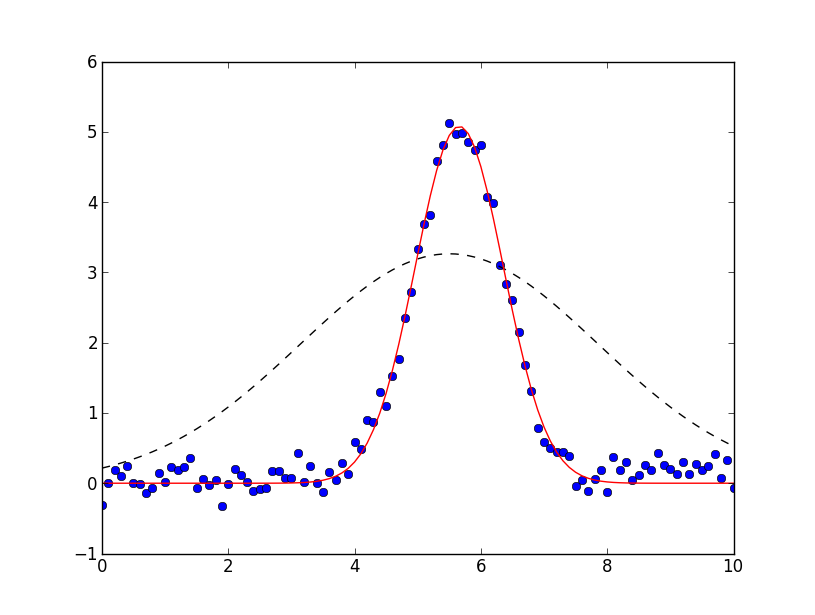
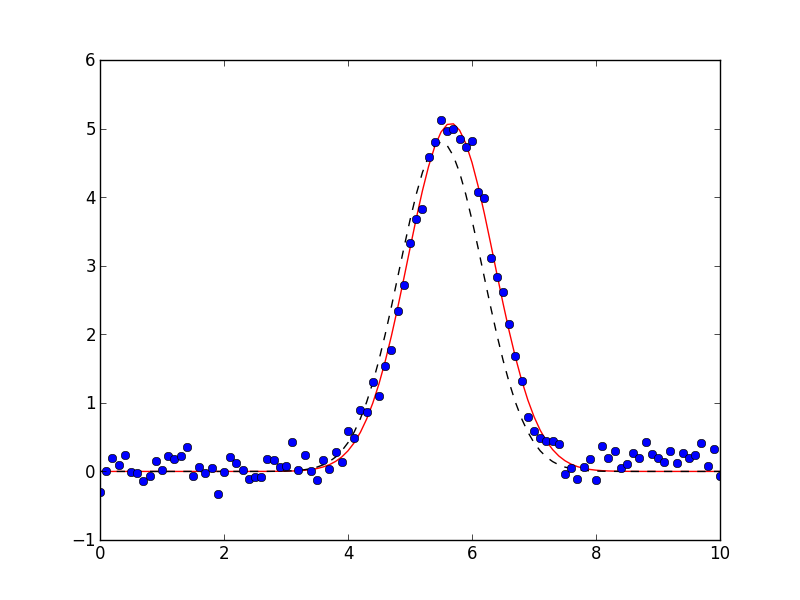
updated doc for models1d ... needs more

diff --git a/doc/models1d.rst b/doc/models1d.rst
@@ -21,19 +21,19 @@ datafile, and fit it to a Gaussian peak.  A script to do this could be:
 
 .. literalinclude:: ../tests/model1d_doc1.py
 
-First, we read in the data for 'x' and 'y', then build a Gaussian
-model.  This 'model' contains all the Parameters for a Gaussian line
-shape.  We then tell the model to make initial guesses for the
-Parameters based on the data arrays.  At this point, we save the
-predicted data with the initial Parameter values.  We then perform the
-actual fit, and print out and display the results.  The printed output
-will be (approximately)::
+First, we read in the data for 'x' and 'y', then build a Gaussian model.
+This 'model' contains all the Parameters for a Gaussian line shape.  We
+then expliticly tell the model to make initial guesses for the Parameters
+based on the data arrays, and save the model predicted with these initial
+Parameter values.  We then perform the actual fit, and print out and
+display the results.  The printed output will be (approximately)::
 
   [[Variables]]
-       amplitude:     12.558540 +/- 0.160655 (1.28%) initial =  27.274340
-       center:        5.658661 +/- 0.010305 (0.18%) initial =  5.500000
-       sigma:         0.493317 +/- 0.007288 (1.48%) initial =  1.666667
-  [[Correlations]] (unreported correlations are <  0.100)
+       amplitude:     8.880222 +/- 0.113597 (1.28%) initial =  8.182302
+       center:        5.65866 +/- 0.01030533 (0.18%) initial =  5.5
+       fwhm:          1.642853 +/- 0.02426699 (1.48%) == '2.35482*sigma'
+       sigma:         0.6976553 +/- 0.01030524 (1.48%) initial =  0.6794575
+  [[Correlations]] (unreported correlations are <  0.250)
       C(amplitude, sigma)          =  0.577
 
 and the resulting plot will look like:
@@ -42,6 +42,16 @@ and the resulting plot will look like:
    :width: 85%
 
 which shows a good fit (the data were simulated).
+
+You can see here that the model created Parameters named 'amplitude',
+'center', 'fwhm', and 'sigma' for the Gaussian model.
+
+You can also see from the results that the starting guess were a pretty
+good estimate for this simple data set.  In fact, it's generally possible
+to not bother running :meth:`guess_starting_values` explicitly.  If this
+method has not been run already, :meth:`fit` will run it for you. Good
+reasons to run this method yourself are if want to save the initial
+estimate of the data, or to alter the starting values by hand.
 
 classes in the :mod:`models1d` module
 =======================================
